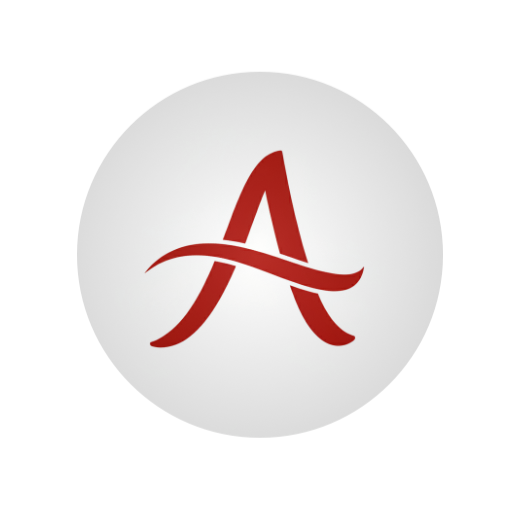
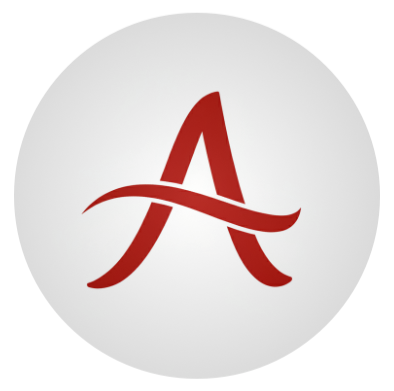
toast init supress, on-edit dupe debounce, simplify text

diff --git a/gui/app.js b/gui/app.js
@@ -14,7 +14,7 @@ let   importing   = false;
 let   pendingImport = null;
 let   pendingClear  = null;
 let   pendingImportAll = null;
-let   suppressChangeToastUntil = 0;
+let   suppressChangeToastUntil = Date.now() + 5000;
 let   suppressedImportGameRels = new Set();
 let   _pathLabels = {};      // "Characters/1234" -> "1234 — Spider-Man" (cached from browse results)
 
@@ -384,8 +384,9 @@ document.getElementById("confirm-ok").addEventListener("click", async () => {
       });
     }
     loadingToast.remove();
-    suppressedImportGameRels.delete(item.game_rel);
     if (res.ok) {
+      suppressChangeToastUntil = Date.now() + 1500;
+      suppressedImportGameRels.delete(item.game_rel);
       toast(`Loaded: ${item.name}`, "success");
       setStatus("");
       refreshSidebarEntry(item.game_rel, item.name, item.skin_id);
@@ -396,6 +397,7 @@ document.getElementById("confirm-ok").addEventListener("click", async () => {
       const importedItem = allItems.find(i => i.game_rel === item.game_rel) || item;
       handleImportedFileAction(importedItem);
     } else {
+      suppressedImportGameRels.delete(item.game_rel);
       toast(`Edit failed: ${res.error}`, "warning");
       setStatus("");
     }
@@ -644,7 +646,7 @@ function handleSSE(d) {
       img.src = `/api/preview${bust}`;
     });
     if (!importing && !suppressedImportGameRels.has(d.game_rel) && Date.now() >= suppressChangeToastUntil) {
-      toast("Asset updated on disk — preview refreshed", "warning", 4000);
+      toast("Asset edited", "warning", 4000);
     }
     return;
   }
@@ -1172,12 +1174,15 @@ _ctxFileInput.addEventListener("change", async () => {
   const fd = new FormData();
   fd.append("file", file);
   fd.append("game_rel", game_rel);
+  suppressedImportGameRels.add(game_rel);
   const t = toastSpinner("Replacing…");
   try {
     const res  = await fetch("/api/replace_texture", { method: "POST", body: fd });
     const data = await res.json();
     t.remove();
     if (data.ok) {
+      suppressChangeToastUntil = Date.now() + 1500;
+      suppressedImportGameRels.delete(game_rel);
       toast("Texture replaced", "success");
       const bust = `&_t=${Date.now()}`;
       document.querySelectorAll(`img[data-game-rel="${CSS.escape(game_rel)}"]`).forEach(img => {
@@ -1189,10 +1194,12 @@ _ctxFileInput.addEventListener("change", async () => {
         });
       }
     } else {
+      suppressedImportGameRels.delete(game_rel);
       toast(`Replace failed: ${data.error}`, "warning");
     }
   } catch (err) {
     t.remove();
+    suppressedImportGameRels.delete(game_rel);
     toast(`Error: ${err.message}`, "warning");
   }
 });

diff --git a/atelier/web/routes.py b/atelier/web/routes.py
@@ -914,10 +914,17 @@ from watchdog.observers import Observer
 from watchdog.events import FileSystemEventHandler
 
 class _PNGHandler(FileSystemEventHandler):
+    _last: dict = {}
+
     def on_modified(self, event):
         if not event.is_directory and event.src_path.endswith(".png"):
+            now = time.monotonic()
+            if now - self._last.get(event.src_path, 0) < 0.5:
+                return
+            self._last[event.src_path] = now
             gr = os.path.relpath(event.src_path[:-4], IMPORT_ROOT).replace("\\", "/")
             _push_sse({"file_changed": True, "token": token(gr), "game_rel": gr})
+
     def on_created(self, event):
         self.on_modified(event)
 

diff --git a/TODO.md b/TODO.md
@@ -1,11 +1,9 @@
 ### regular
+descriptive spinner text during initial (extra long loading for index)
 during the prefill stage of initial configuration when config file doesnt exist, create one with the prefilled contents, "" if no input prefilled
-UI thumbnail generation takes forever compared to character textures?
 replace on-boot toast with extremely fast lightweight splash screen
 toggle select/deselect all when clicking the sidebar's circled number
 confirmation before export files override files with same name
-fix the duplicate toast from watchdog on file edit
-supress toasts when existing imports loaded on boot
 sidebar: path under material/vfx items dont show anything, its just '/', show path truncated
 hovering over item in sidebar should show tooltip with pak name + full path
 use webview max compatibility gui method, ex leave undefined if better compat